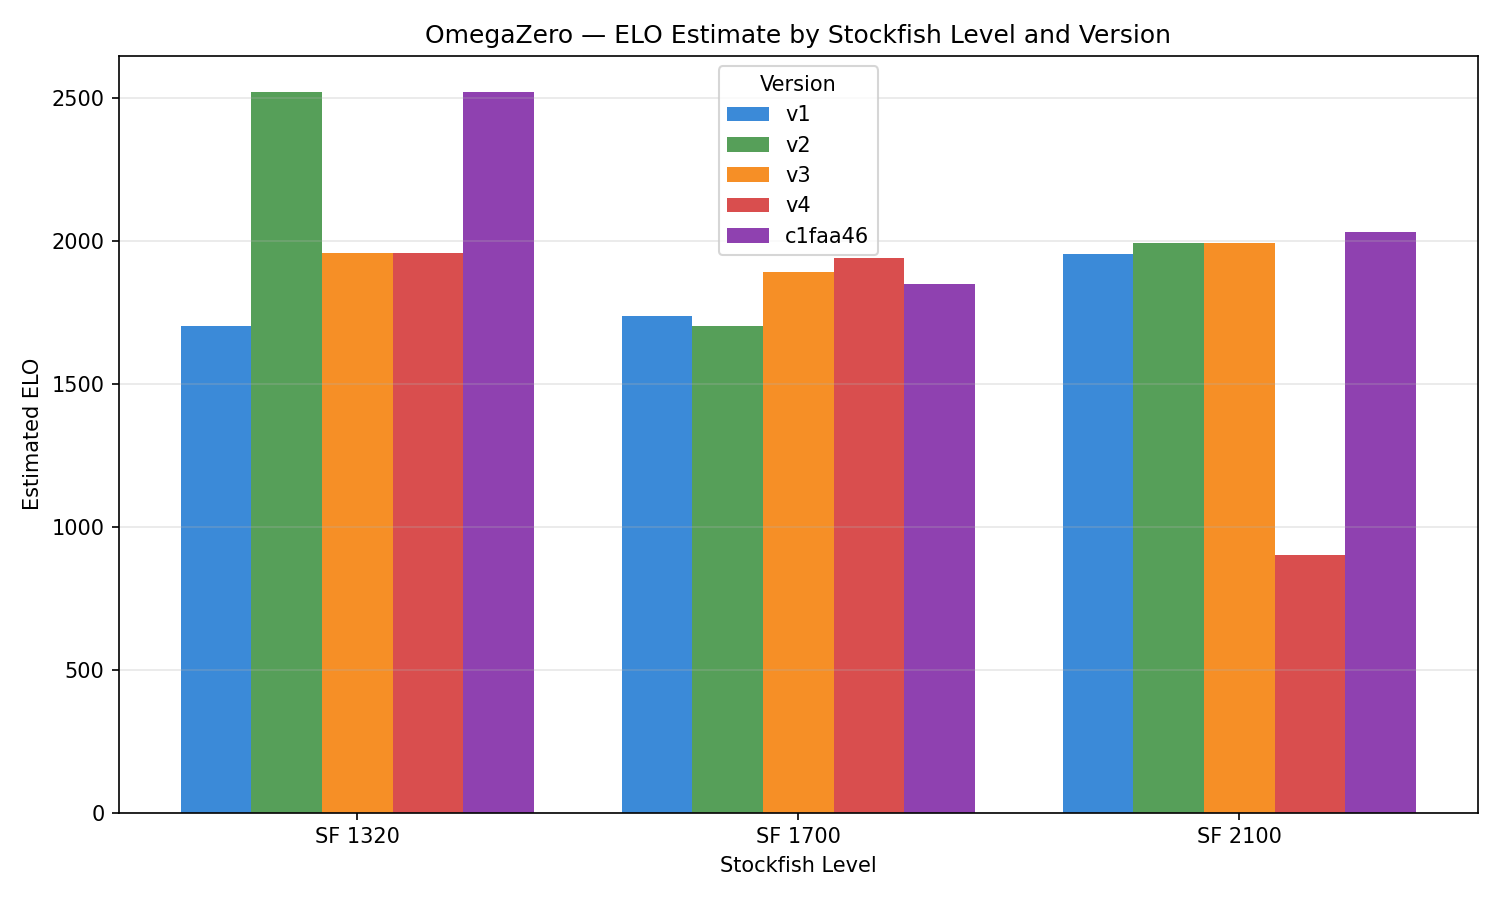
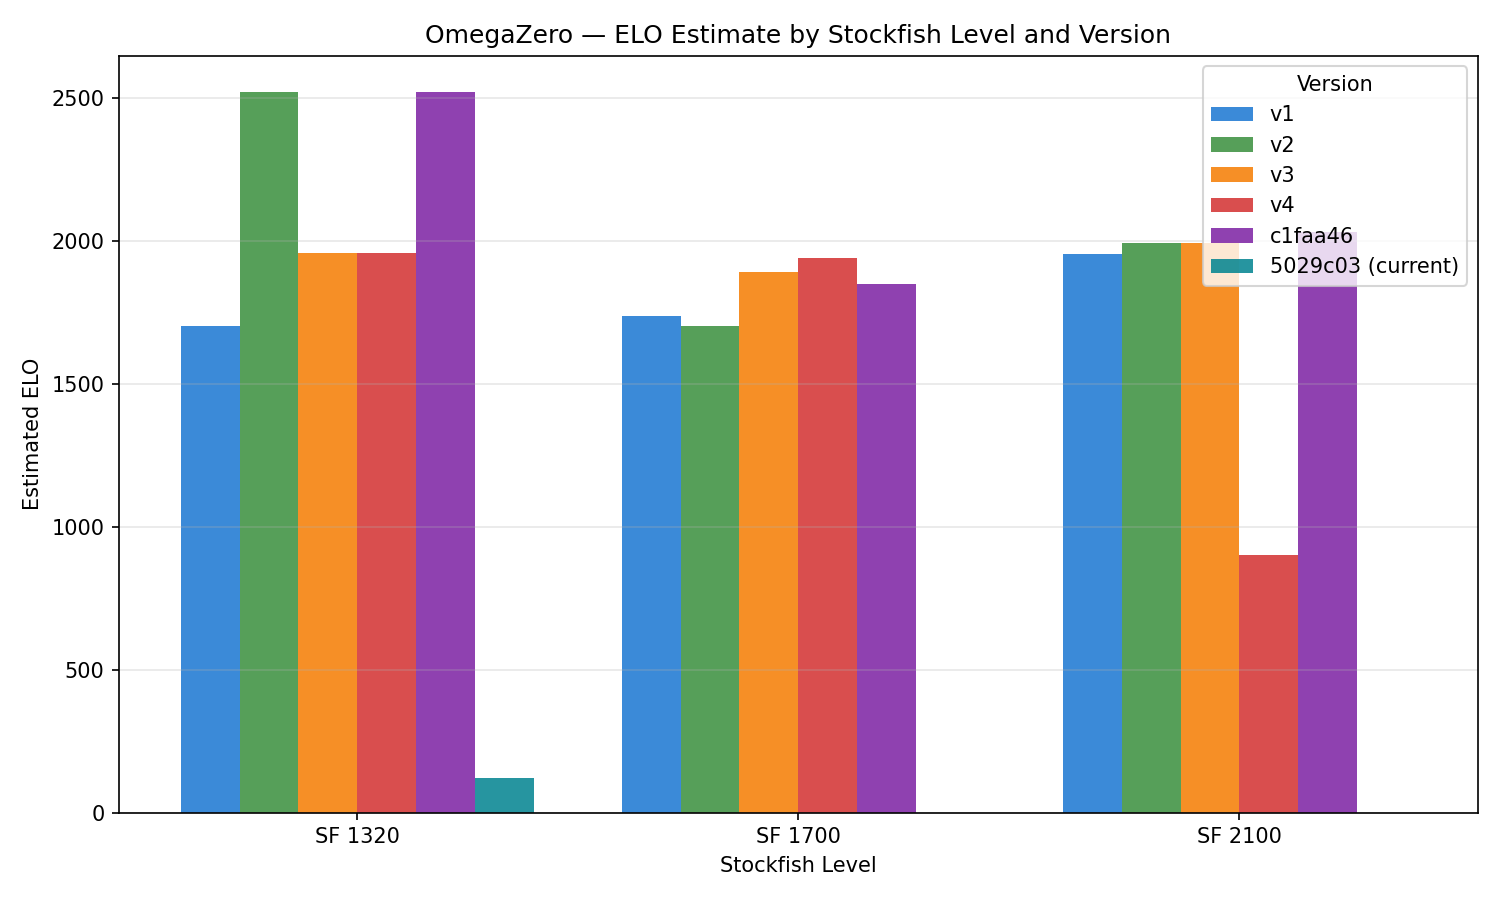
Add flags to trigger rebuild when headers touched

diff --git a/scripts/elo_test.py b/scripts/elo_test.py
@@ -375,8 +375,8 @@ def main():
         help="Path to cutechess-cli (default: auto-detect)",
     )
     run_p.add_argument(
-        "--elo-levels", default="1320,1500,1700,1900,2100",
-        help="Comma-separated opponent ELO levels (default: 1320,1500,1700,1900,2100)",
+        "--elo-levels", default="1320,1700,2100",
+        help="Comma-separated opponent ELO levels (default: 1320,1700,2100)",
     )
     run_p.add_argument(
         "--games", type=int, default=20,
@@ -384,7 +384,7 @@ def main():
     )
     run_p.add_argument(
         "--st", default="5",
-        help="Fixed time per move in seconds (default: 0.1)",
+        help="Fixed time per move in seconds (default: 5)",
     )
 
     sub.add_parser("plot", help="Regenerate plots from version_history.csv")
